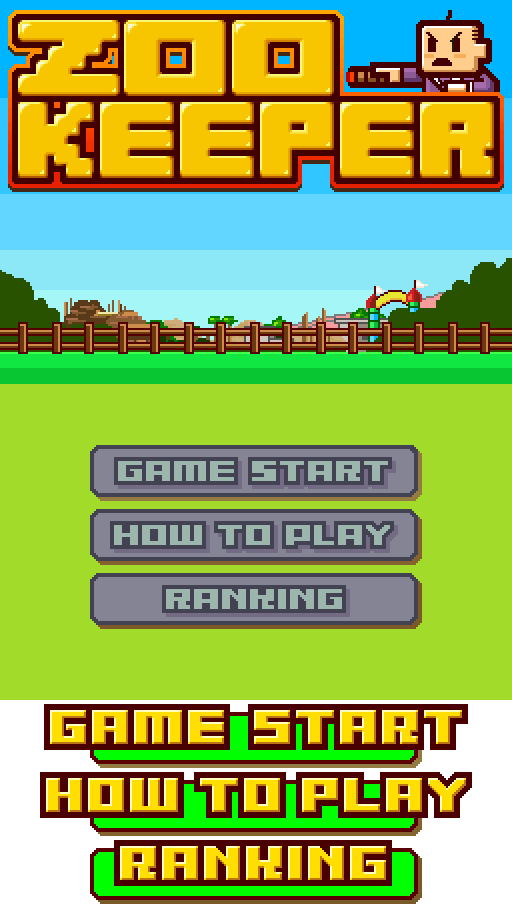
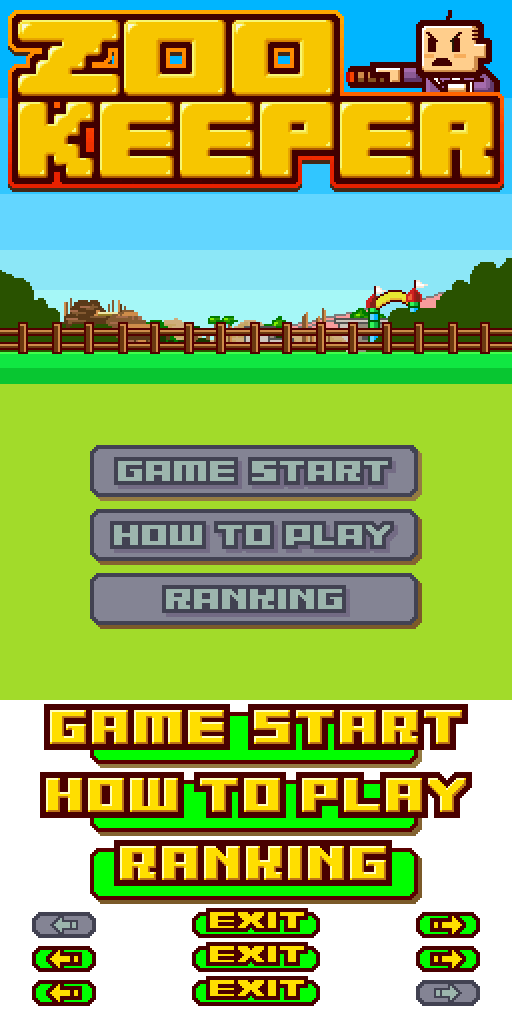
game menu function added

diff --git a/js/GameMenu.js b/js/GameMenu.js
@@ -1,0 +1,111 @@
+function GameMenu()
+{
+	this.hoverOnButton = false;
+	this.startupGameMenu = function()
+	{
+		this.startupVisualGameObject(g_ResourceManager.titlescren, 0, 910, 0, 0, 0, 0, 2);
+		return this;
+	}
+
+	this.shutdownGameMenu = function()
+    {
+        this.shutdownVisualGameObject();
+    }
+
+	this.setImage = function(image, sx, sy, width, height, x, y)
+	{
+		this.image = image;
+        this.sx = sx;
+        this.sy = sy;
+        this.x = x;
+        this.y = y;
+        this.width = width;
+        this.height = height;
+	}
+
+	this.update = function()
+	{
+		switch (this.hoverOnButton)
+		{
+			case 'start' : 
+				this.setImage(g_ResourceManager.titlescren, 44, 704, 424, 64, 44, 437)
+				break
+			case 'guide' :
+				this.setImage(g_ResourceManager.titlescren, 40, 772, 432, 64, 40, 501)
+				break
+			case 'rank' :
+				this.setImage(g_ResourceManager.titlescren, 90, 840, 332, 64, 90, 565)
+				break
+			default : 
+				this.setImage(g_ResourceManager.titlescren, 0, 910, 0, 0, 0, 0)
+		}
+	}
+
+	this.mousemove = function(event)
+	{
+		if(event.offsetX > 90 && event.offsetX < 418 && event.offsetY > 445 && event.offsetY < 625 ){
+			if( event.offsetY <= 497 ){
+				this.hoverOnButton = 'start';
+			}else if( event.offsetY > 497 && event.offsetY < 561 ){
+				this.hoverOnButton = 'guide';
+			}else{
+				this.hoverOnButton = 'rank';
+			}
+		}else{
+			this.hoverOnButton = false;
+		}
+	}
+
+	this.mouseclick = function(event){
+		switch (this.hoverOnButton)
+		{
+			case 'start' : 
+				//
+				break
+			case 'guide' :
+				g_ApplicationManager.gameGuide = new GameGuide().startupGameGuide();
+				break
+			case 'rank' :
+				//
+				break
+			default : 
+				//
+		}
+	}
+}
+GameMenu.prototype = new VisualGameObject;
+
+function GameGuide()
+{
+	this.menu = new GameGuideMenu().startupGameGuideMenu();
+	this.startupGameGuide = function(){
+		this.startupVisualGameObject(g_ResourceManager.guide, 0, 0, g_ResourceManager.guide.width, g_ResourceManager.guide.height, 0, 0, 3);
+		return this;
+	}
+
+	this.shutdownGameGuide = function()
+	{
+		this.shutdownVisualGameObject();
+		this.menu.shutdownGameMenu();
+	}
+
+	this.mouseclick = function(event){
+		
+	}
+}
+GameGuide.prototype = new VisualGameObject;
+
+function GameGuideMenu()
+{
+	this.startupGameGuideMenu = function()
+	{
+		this.startupVisualGameObject(g_ResourceManager.titlescren, 0, 908, g_ResourceManager.titlescren.width, 34, 0, 665, 4);
+		return this;
+	}
+
+	this.shutdownGameGuideMenu = function()
+	{
+		this.shutdownVisualGameObject();
+	}
+}
+GameGuideMenu.prototype = new VisualGameObject;

diff --git a/js/GameObjectManager.js b/js/GameObjectManager.js
@@ -18,13 +18,11 @@ function GameObjectManager()
     {
         g_GameObjectManager = this;
 
-        document.onclick = function(event){g_GameObjectManager.mouseclick(event);}
-        document.onmouseover = function(event){g_GameObjectManager.mouseover(event);}
-        document.onmouseout = function(event){g_GameObjectManager.mouseout(event);}
+        this.canvas = document.getElementById('canvas');
+        this.canvas.onclick = function(event){g_GameObjectManager.mouseclick(event);}
+        this.canvas.onmousemove = function(event){g_GameObjectManager.mousemove(event);}
         document.onkeydown = function(event){g_GameObjectManager.keyDown(event);}
         document.onkeyup = function(event){g_GameObjectManager.keyUp(event);}
-
-        this.canvas = document.getElementById('canvas');
 
         if (this.canvas.getContext)
         {
@@ -139,24 +137,13 @@ function GameObjectManager()
         }
     }
 
-    this.mouseover = function(event)
+    this.mousemove = function(event)
     {
         for (x in this.gameObjects)
         {
-            if (this.gameObjects[x].mouseover)
+            if (this.gameObjects[x].mousemove)
             {
-                this.gameObjects[x].mouseover(event);
-            }
-        }
-    }
-
-    this.mouseout = function(event)
-    {
-        for (x in this.gameObjects)
-        {
-            if (this.gameObjects[x].mouseout)
-            {
-                this.gameObjects[x].mouseout(event);
+                this.gameObjects[x].mousemove(event);
             }
         }
     }

diff --git a/Zoo_Keeper.html b/Zoo_Keeper.html
@@ -1,13 +1,17 @@
 <!DOCTYPE HTML>
 <html>
 <head>
+	<meta http-equiv="Content-Type" content="text/html; charset=utf-8">
 	<title>Zoo_Keeper</title>
 	<link rel="stylesheet" type="text/css" href="css/Zoo_Keeper.css">
 </head>
 <body>
-	<canvas id="canvas" width="512" height="700">
-		<p>Your browser does not support the canvas element.</p>
-	</canvas>
+	<div class="container">
+		<canvas id="canvas" width="512" height="700">
+			<p>Your browser does not support the canvas element.</p>
+		</canvas>
+	</div>
+	
 </body>
 </html>
 <script type="text/javascript" src="js/Utils.js"></script>
@@ -16,5 +20,6 @@
 <script type="text/javascript" src="js/AnimatedGameObject.js"></script>
 <script type="text/javascript" src="js/GameObjectManager.js"></script>
 <script type="text/javascript" src="js/ResourceManager.js"></script>
-<script type="text/javascript" src="js/ApplicationManager.js"></script>    
+<script type="text/javascript" src="js/ApplicationManager.js"></script>
+<script type="text/javascript" src="js/GameMenu.js"></script>    
 <script type="text/javascript" src="js/Main.js"></script>

diff --git a/js/ApplicationManager.js b/js/ApplicationManager.js
@@ -9,7 +9,8 @@ function ApplicationManager()
     this.startupApplicationManager = function(canvasWidth, canvasHeight)
     {
         g_ApplicationManager = this;
-        this.background = new VisualGameObject().startupVisualGameObject(g_ResourceManager.titlescren, 0, 0, 512, 700, 0, 0, 1)
+        this.background = new VisualGameObject().startupVisualGameObject(g_ResourceManager.titlescren, 0, 0, 512, 700, 0, 0, 1);
+        this.gameMenu = new GameMenu().startupGameMenu();
         this.updateScore();
         return this;
     }

diff --git a/css/Zoo_Keeper.css b/css/Zoo_Keeper.css
@@ -1,11 +1,14 @@
 *{padding:0;margin:0;}
 body{background-color: #f9f9f9;}
-canvas{
-	position: absolute;
-	border:5px solid white; 
-	left:50%;
-	top:50%;
-	margin-left: -256px; 
-	margin-top: -350px;
+.container{
 	box-shadow: 0 0 6px 0px #bbb;
+	padding:5px;
+	width:512px;
+	height: 700px;
+	position: absolute;
+	left: 50%;
+	top: 50%;
+	margin-top: -350px;
+	margin-left: -256px;
+	background-color: white;
 }

diff --git a/js/Main.js b/js/Main.js
@@ -5,7 +5,7 @@ var g_ApplicationManager = null;
 var g_ResourceManager = null;
 var g_Resource = [
 	{name:'titlescren', src:'resource/titlescren.png'},
-	{name:'howto', src:'resource/howto.png'}
+	{name:'guide', src:'resource/guide.png'},
 	{name:'animals', src:'resource/animals.png'},
 	{name:'panels', src:'resource/panels.png'}
 ]
